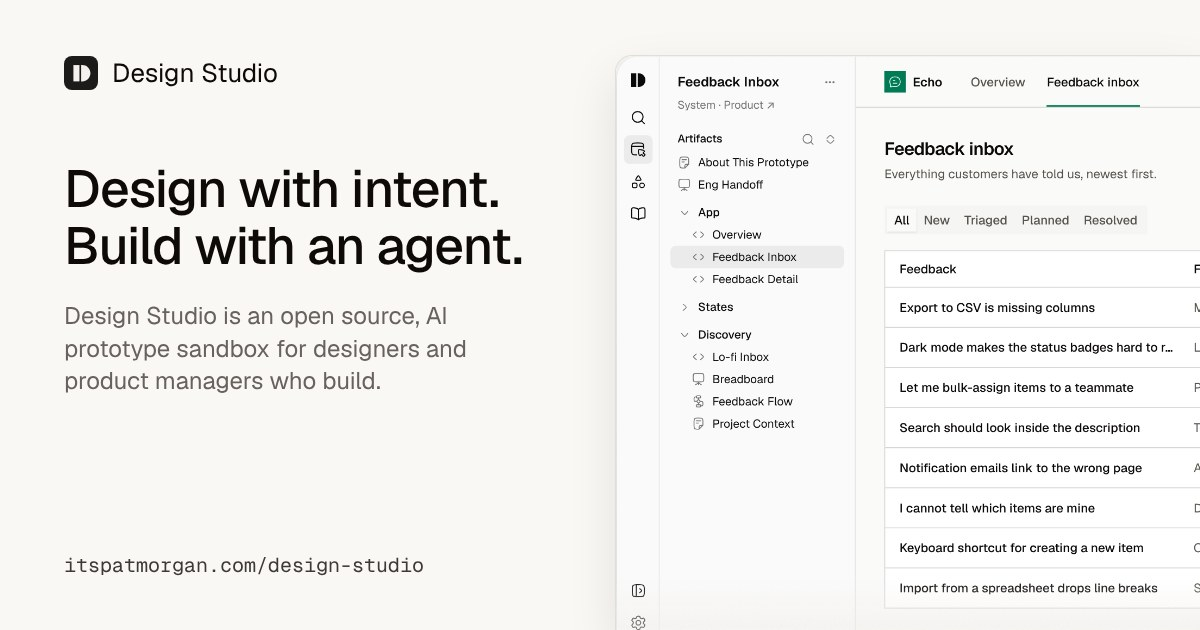
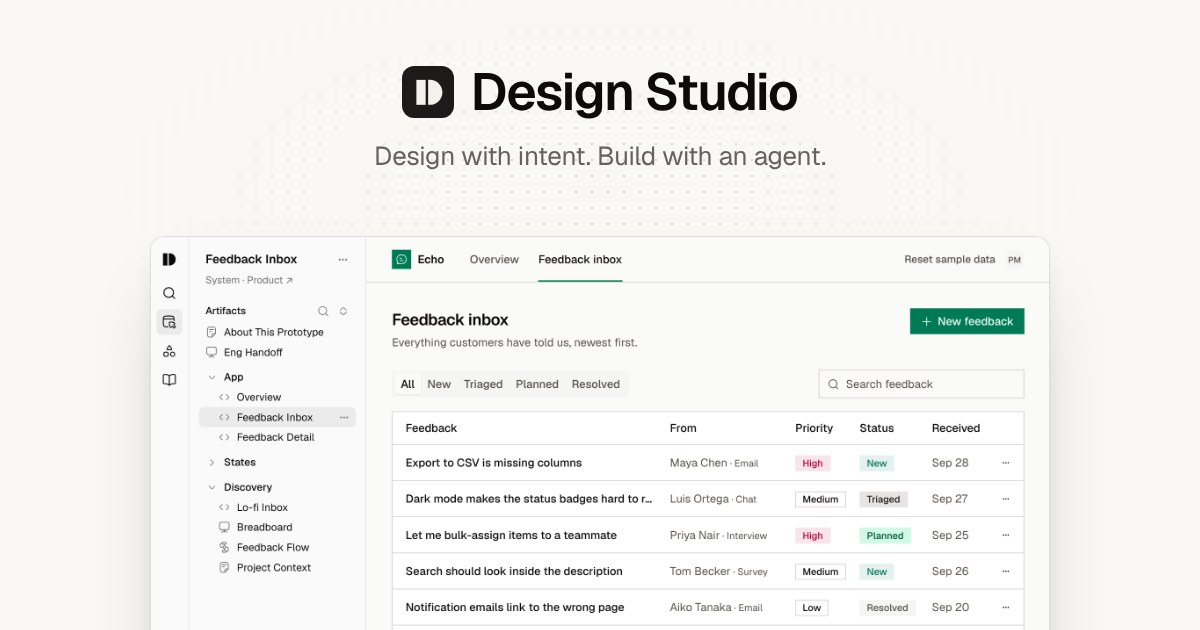
Give the Design Studio page a product launch share card (#113)
The /design-studio share card is now a launch card: centered Design Studio wordmark, tagline, dot field, and the Studio window rising from the bottom edge with one hairline ring and soft shadows. share-card.mjs gains --layout product and scrolls captures into view. The page description now says "who build with agents".

Claude-Session: https://claude.ai/code/session_01F8Nue6TyL9bBGBeGxb2amx

diff --git a/agents/conventions/assets.md b/agents/conventions/assets.md
@@ -22,9 +22,9 @@ URLs with the current mark so external references cannot fetch retired branding.
 ## Share Images
 
 Every public page passes a 1200x630 JPG as `image` to its layout; pages without one fall back to
-`/images/share/home.jpg`. Cards follow the Design Studio card (`/images/share/design-studio.jpg`): paper background, logo and name top
+`/images/share/home.jpg`. Cards follow the Design Studio case study card (`/images/share/work-design-studio.jpg`): paper background, logo and name top
 left, the page headline, one short line, the URL in Geist Mono, and real UI or photos on the right.
-Case study cards crop the page's own hero screen. The top-left lockup is the company logo on company
+Case study cards crop the page's own hero screen. The one exception is the /design-studio product page, whose card is a product launch card (`--layout product`): the centered Design Studio wordmark, the page headline as its tagline, a dot field, and the Studio window rising from the bottom edge, with no URL or line, so it sits beside other community tools. The top-left lockup is the company logo on company
 case studies and the Design Studio mark on both Design Studio cards; every other card says Patrick Morgan with the site mark. Use JPG or PNG, not WebP, since some apps ignore
 WebP previews. Writing articles use their generated `feature.jpg`. Render cards with
 `scripts/share-card.mjs`; the `share-cards` skill has the workflow.

diff --git a/agents/skills/share-cards/SKILL.md b/agents/skills/share-cards/SKILL.md
@@ -27,6 +27,10 @@ The full rules are in `agents/conventions/assets.md` (Share Images). In short:
   own hero screen, real photos, real product UI. Product screens bleed off the
   right and bottom edges. Everything else sits centered in the right region,
   inside the 64px margins.
+- **Product page.** /design-studio is the open source project's own page, so
+  its card is a launch card, not a portfolio card. Render it with
+  `--layout product --title "Design with intent. Build with an agent." --name "Design Studio"
+  --logo /images/studio-case/design-studio-mark.svg --capture http://localhost:4321/design-studio/ --selector ".hx-window"`.
 - **Format.** JPG at `public/images/share/<name>.jpg`, passed to the page's
   layout as its image (`caseStudy.shareImage` for case studies). Writing
   articles use their generated `feature.jpg` instead.
